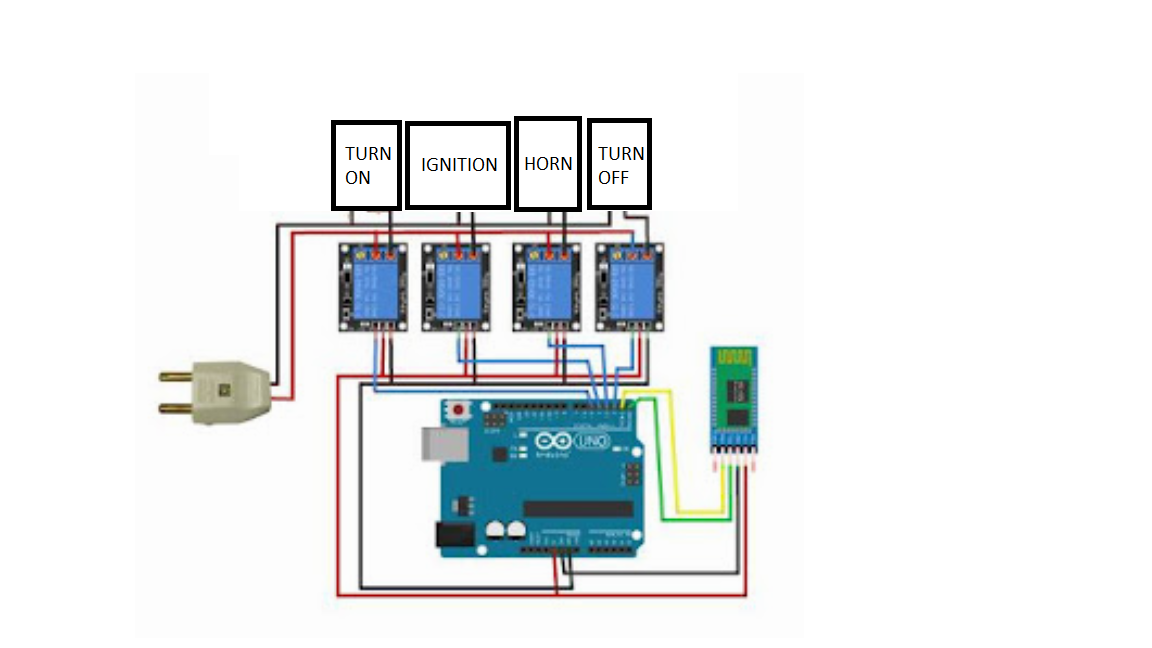
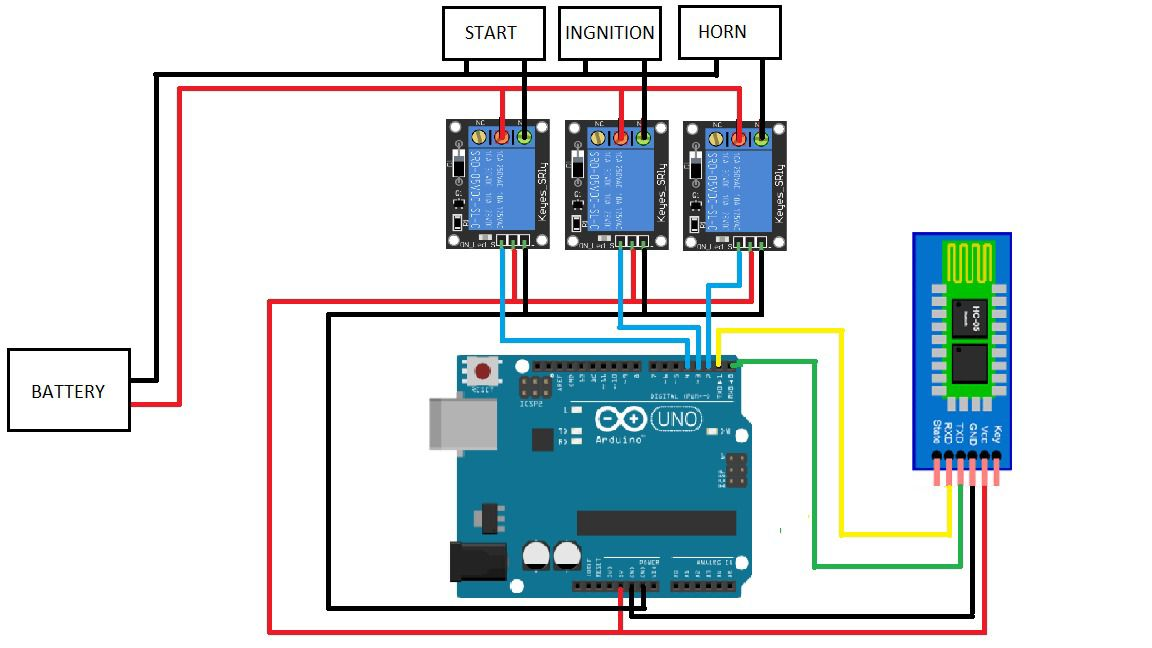
Readme updated

Changed region(s): [[0.0, 0.0, 0.9062, 0.9877]]

diff --git a/README.md b/README.md
@@ -11,6 +11,7 @@ This aim of this project is to make the working of a bike or scooter keyless and
 The hardware components used are:
 * Arduino UNO
 * HC05 Bluetooth Module
+* LM2596 DC to DC Buck Converter
 * Relays
 * Power Supply (in this case the battery of the vehicle)
 
@@ -19,8 +20,17 @@ The hardware components used are:
 
 Program the arduino with the [arduino code](./arduino%20code/main.ino) that is provided here and connect the hardware according to the [circuit diagram](./circuit_diagram/Circuit-diagram.png) given.
 
-Install the app using the given apk and pair it with the mobile device. Open the app and connect to the vehicle and lets go 🚀
+Install the app in your android phone using the apk provided 📱
 
+
+## Usage of App
+
+Follow the below steps to control the vehicle using the app.
+
+1. Install the app and allow permissions for Audio🎙 and nearby devices🗺
+2. Pair the module with the android device using the password assigned to the module.
+3. Click on connect button and select the bluetooth device🛵
+4. Control the vehicle using voice commands or buttons that appear and voila 🚀
 
 
 ## License
